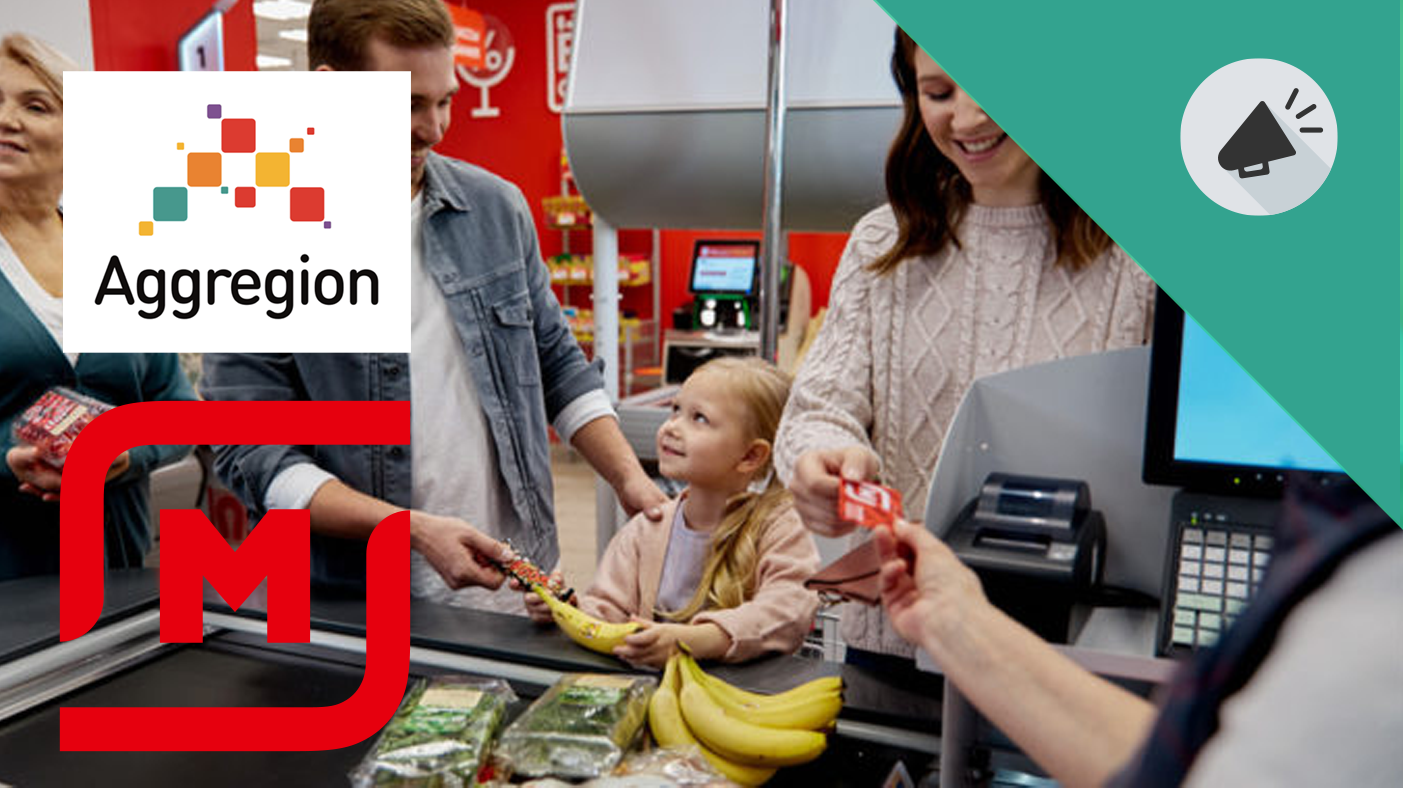
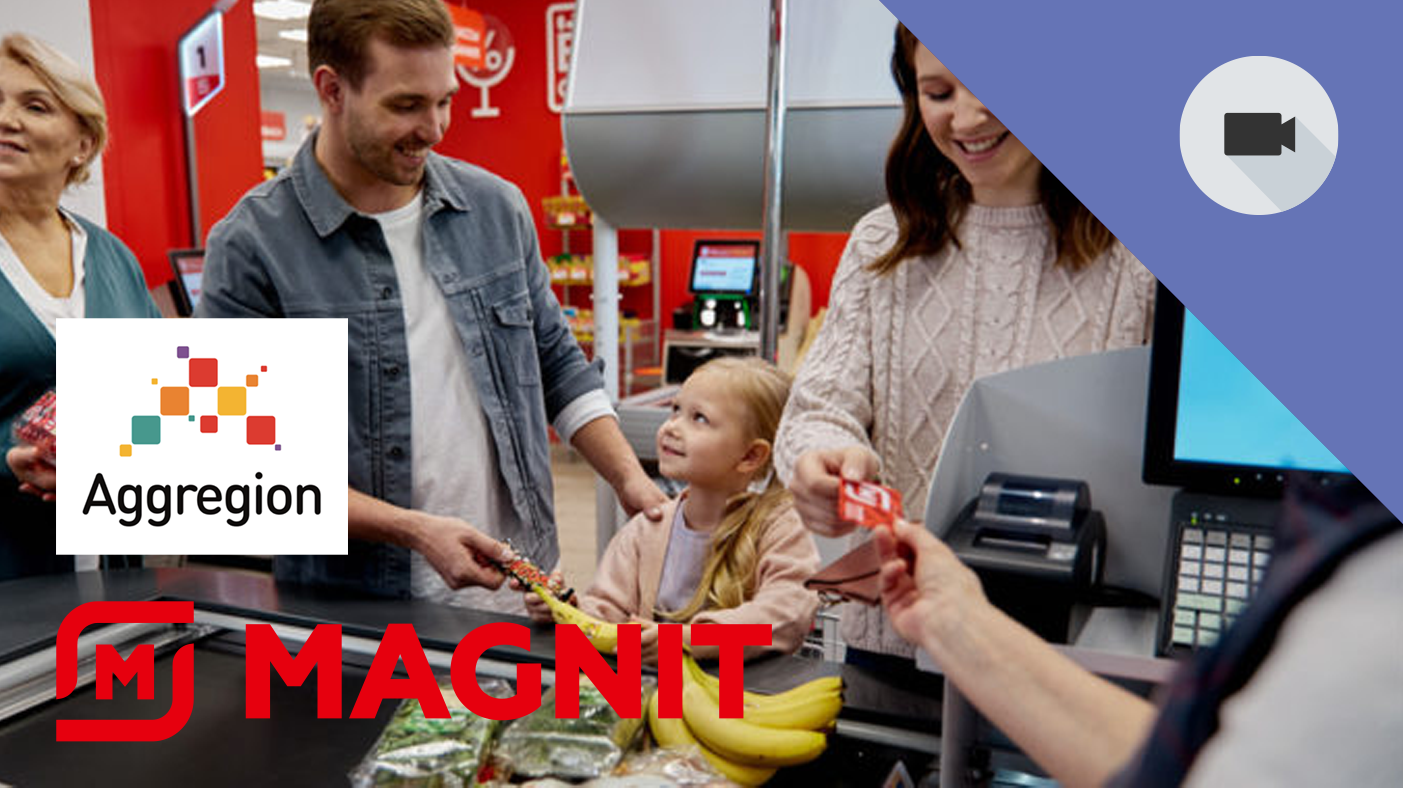
Correction German news

diff --git a/index_de.html b/index_de.html
@@ -308,14 +308,14 @@
                         <div class="grid">
                             <div class="entry-media">
                                 <span class="news">Pressemitteilung</span>
-                                <img src="img/news/Magnit.png" alt="Magnit logo">
+                                <img src="img/news/magnit.png" alt="Magnit logo">
                             </div>
                             <div class="entry-body">
                                 
                                 <h4 class="black">SCONE & Aggregion arbeiten mit Magnit zusammen</h4>
                                 <p>Magnit, eine der führenden Lebensmitteleinzelhandelsketten Russlands mit mehr als 20.000 Standorten und 16 Millionen Besuchern pro Tag, hat eine vertrauenswürdige Plattform für die Verwaltung digitaler Werbedaten bereitgestellt. Die Plattform wurde von Aggregion und Scontain entwickelt und nutzt SCONE zum Schutz von Kundendaten. (Bild:&nbsp;Magnit)</p>
                                 <div class="read-more-date">
-                                    <p> Video...
+                                    <p> Artikel...
                                     <span class="date">14/10/2020</span></p>
                                 </div>
                             </div>
